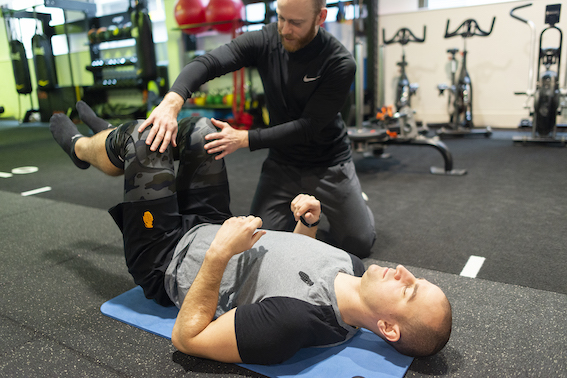
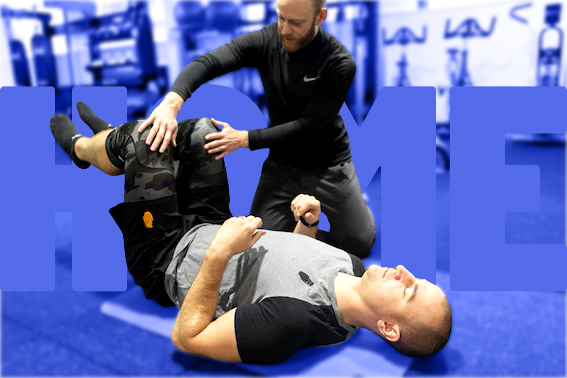
Change compact homepage image

diff --git a/sports-therapy.html b/sports-therapy.html
@@ -294,12 +294,14 @@
     <main class="sports-therapy-body-region">
         <header class="sports-therapy-main-header">
             <picture class="sports-therapy-main-header-picture">
-                <source type="image/webp" srcset="images/what-is-sports-therapy/what-is-sports-therapy-compact1x.webp 1x, images/what-is-sports-therapy/what-is-sports-therapy-compact2x.webp 2x, images/what-is-sports-therapy/what-is-sports-therapy-compact3x.webp 3x" media="(max-width: 599px)" width="567" height="378" />
+                <!--<source type="image/webp" srcset="images/what-is-sports-therapy/what-is-sports-therapy-compact1x.webp 1x, images/what-is-sports-therapy/what-is-sports-therapy-compact2x.webp 2x, images/what-is-sports-therapy/what-is-sports-therapy-compact3x.webp 3x" media="(max-width: 599px)" width="567" height="378" />
                 <source type="image/webp" srcset="images/what-is-sports-therapy/what-is-sports-therapy-medium1x.webp 1x, images/what-is-sports-therapy/what-is-sports-therapy-medium2x.webp 2x, images/what-is-sports-therapy/what-is-sports-therapy-medium3x.webp 3x" media="(min-width: 600px) and (max-width: 839px)" width="791" height="528" />
                 <source type="image/webp" srcset="images/what-is-sports-therapy/what-is-sports-therapy-expanded1x.webp 1x, images/what-is-sports-therapy/what-is-sports-therapy-expanded2x.webp 2x, images/what-is-sports-therapy/what-is-sports-therapy-expanded3x.webp 3x" media="(min-width: 840px)" width="2322" height="1549" />
                 <source type="image/jpeg" srcset="images/what-is-sports-therapy/what-is-sports-therapy-medium1x.jpeg 1x, images/what-is-sports-therapy/what-is-sports-therapy-medium2x.jpeg 2x, images/what-is-sports-therapy/what-is-sports-therapy-medium3x.jpeg 3x" media="(min-width: 600px) and (max-width: 839px)" width="791" height="528" />
                 <source type="image/jpeg" srcset="images/what-is-sports-therapy/what-is-sports-therapy-expanded1x.jpeg 1x, images/what-is-sports-therapy/what-is-sports-therapy-expanded2x.jpeg 2x, images/what-is-sports-therapy/what-is-sports-therapy-expanded3x.jpeg 3x" media="(min-width: 840px)" width="2322" height="1549" />
-                <img class="section-picture" src="images/what-is-sports-therapy/what-is-sports-therapy-compact1x.jpeg" alt="A man performs a core stability exercise on a gym floor with the help of a sports therapist" width="567" height="378" loading="eager" decoding="sync" srcset="images/what-is-sports-therapy/what-is-sports-therapy-compact1x.jpeg 1x, images/what-is-sports-therapy/what-is-sports-therapy-compact2x.jpeg 2x, images/what-is-sports-therapy/what-is-sports-therapy-compact3x.jpeg 3x" />
+                <img class="section-picture" src="images/what-is-sports-therapy/what-is-sports-therapy-compact1x.jpeg" alt="A man performs a core stability exercise on a gym floor with the help of a sports therapist" width="567" height="378" loading="eager" decoding="sync" srcset="images/what-is-sports-therapy/what-is-sports-therapy-compact1x.jpeg 1x, images/what-is-sports-therapy/what-is-sports-therapy-compact2x.jpeg 2x, images/what-is-sports-therapy/what-is-sports-therapy-compact3x.jpeg 3x" />-->
+
+                <img class="section-picture" src="images/what-is-sports-therapy/test3.jpg" alt="A man performs a core stability exercise on a gym floor with the help of a sports therapist" width="567" height="378" loading="eager" decoding="sync" />
             </picture>
             <div class="sports-therapy-header-content">
                 <h1 class="display">What is Sports Therapy?</h1>
